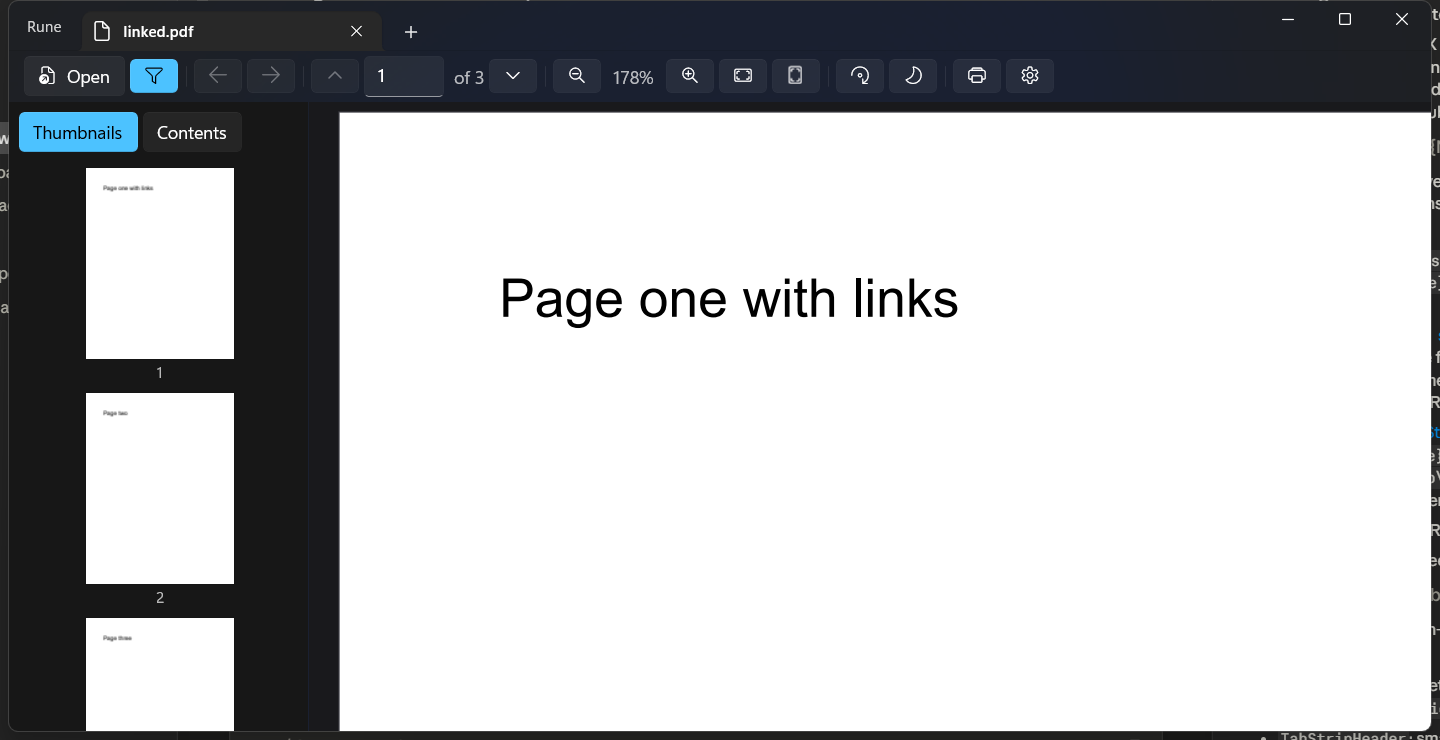
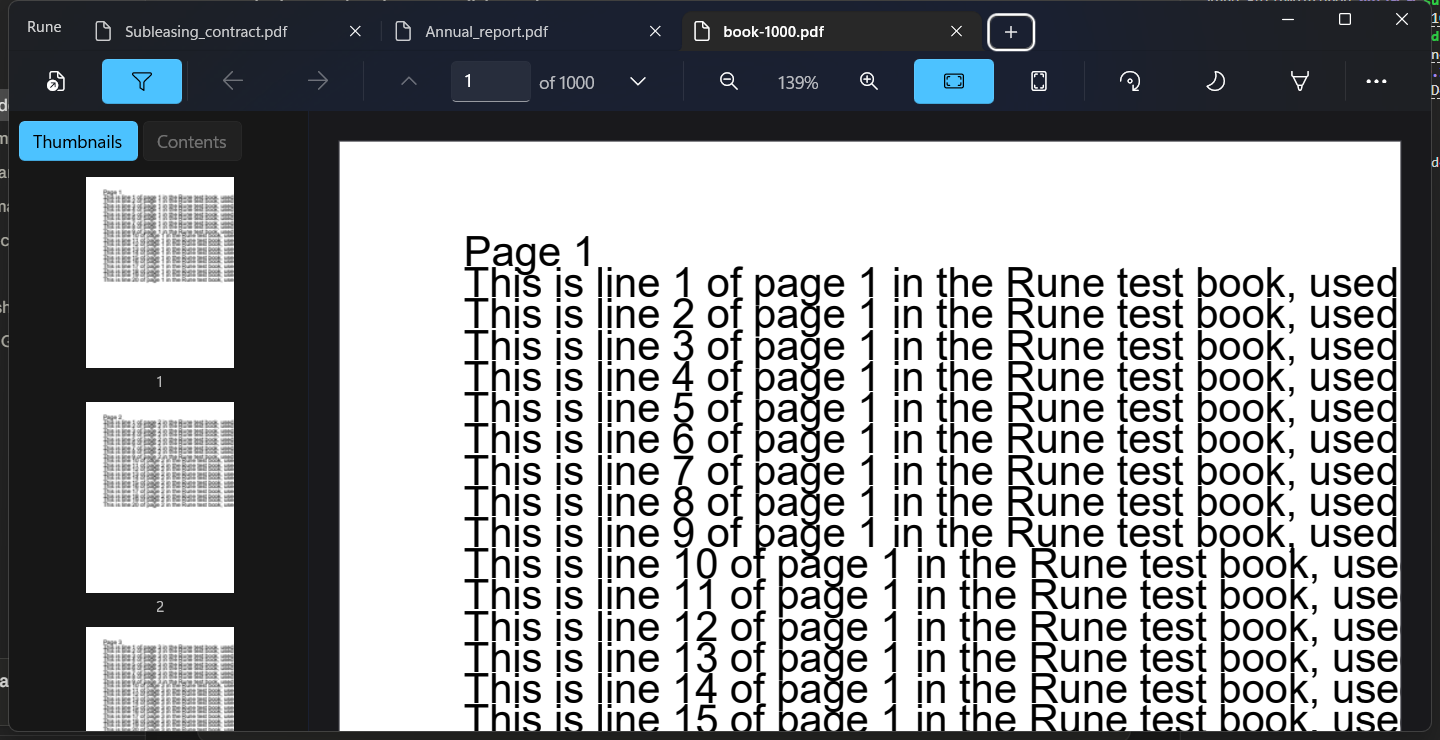
v0.3.0: version bump, README + screenshots
Bumps csproj + manifest to 0.3.0; README documents ink, the recent-docs
homepage, and the Windows 11 command-bar toolbar; refreshes the dark and
night hero screenshots with the new UI.

diff --git a/README.md b/README.md
@@ -27,14 +27,17 @@ Windows never had a PDF reader that is fast **and** lightweight **and** modern-l
 - Zoom 10–640% at the cursor, fit-width / fit-page, rotation
 - Thumbnails + table-of-contents sidebar, internal & web links, back/forward history
 - Text selection & copy, find-in-document with highlight-all and hit stepping
-- **Annotations**: highlight, underline, strikeout from a selection, plus sticky notes — saved as standard PDF annotations any reader can see (`Ctrl+H`, right-click menu, `Ctrl+S` / `Ctrl+Shift+S`)
+- **Annotations**: highlight, underline, strikeout from a selection, sticky notes, and **freehand pen/ink** — saved as standard PDF annotations any reader can see (`Ctrl+H` highlight, `Ctrl+E` pen, right-click menu, `Ctrl+S` / `Ctrl+Shift+S`)
 - **Night mode**: GPU-inverted page colors for dark-room reading (`Ctrl+I`)
+- **Recent-documents homepage**: first-page thumbnails of your last files (optional, in Settings)
 - Command palette (`Ctrl+K`) with fuzzy filtering and go-to-page
 - Session restore: reopens your tabs at the exact scroll position
 - Pinch-to-zoom (touch/touchpad) and `Ctrl`+scroll, zoom at the cursor
 - **Self-updating**: checks GitHub for new releases and updates in place (portable build; toggle in Settings)
 - Printing with live preview and page ranges
 - Opens damaged PDFs gracefully; 4 GB-file streaming without loading into memory
+
+The toolbar is a stock Windows 11 command bar — uniform, and it collapses commands into an overflow menu on narrow windows.
 
 ## Keyboard shortcuts
 
@@ -48,10 +51,10 @@ Windows never had a PDF reader that is fast **and** lightweight **and** modern-l
 | First / last page | `gg` / `G` |
 | Back / forward | `Alt+←` / `Alt+→` |
 | Night mode / sidebar / rotate | `Ctrl+I` / `F9` / `Ctrl+R` |
-| Highlight selection / save / save as | `Ctrl+H` / `Ctrl+S` / `Ctrl+Shift+S` |
+| Highlight / pen / save / save as | `Ctrl+H` / `Ctrl+E` / `Ctrl+S` / `Ctrl+Shift+S` |
 | Print / properties | `Ctrl+P` / `Ctrl+D` |
 
-Vim-style keys can be disabled in Settings. Right-click a selection for underline/strikeout, or anywhere to add a note.
+Vim-style keys can be disabled in Settings. Right-click a selection for underline/strikeout, or anywhere to add a note. Pen color and width are in the toolbar's overflow menu.
 
 ## Install
 